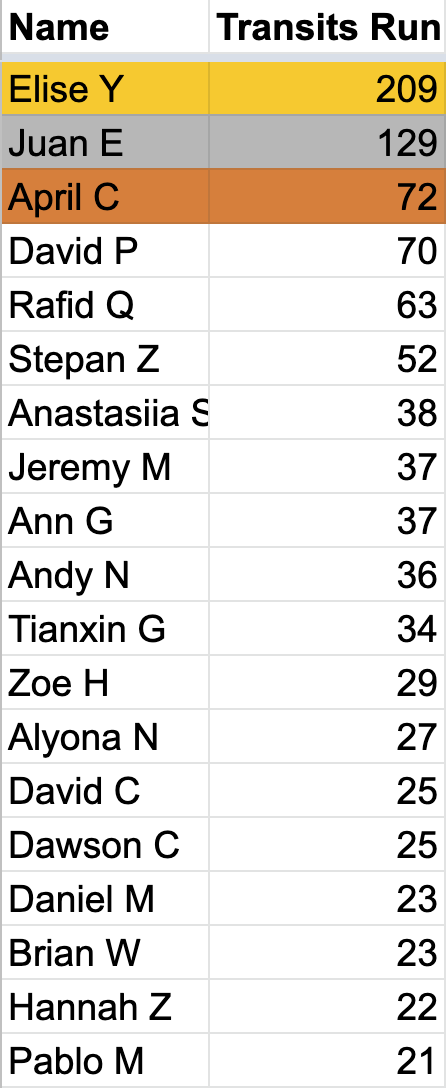
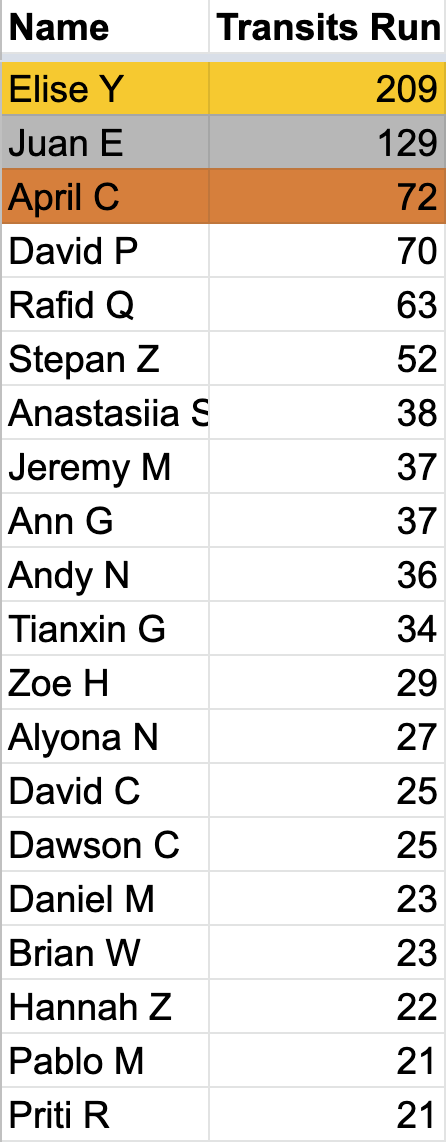
Update leaderboard screenshot

Changed region(s): [[0.0, 0.0, 1.0, 1.0]]

diff --git a/index.md b/index.md
@@ -50,7 +50,7 @@ Previously, we held our large group meetings on Wednesdays at 1pm PDT in [Zoom](
 
 ## Leaderboard
 
-We have transitioned to using the newer version of EXOTIC, and the Colab notebook we originally used to synchronize with the leaderboard does not work with this version. Here is a snapshot of the leaderboard from before the version was released. Thanks all for your participation!
+We have transitioned to using the newer version of EXOTIC, and the Colab notebook we originally used to synchronize with the leaderboard does not work with this version. Here is a snapshot of the top 20 from our leaderboard from before the version was released. Thanks all for your participation!
 
 ![](/assets/leaderboard.png){: style="max-width:200px;margin:auto;display:block;"}
 
